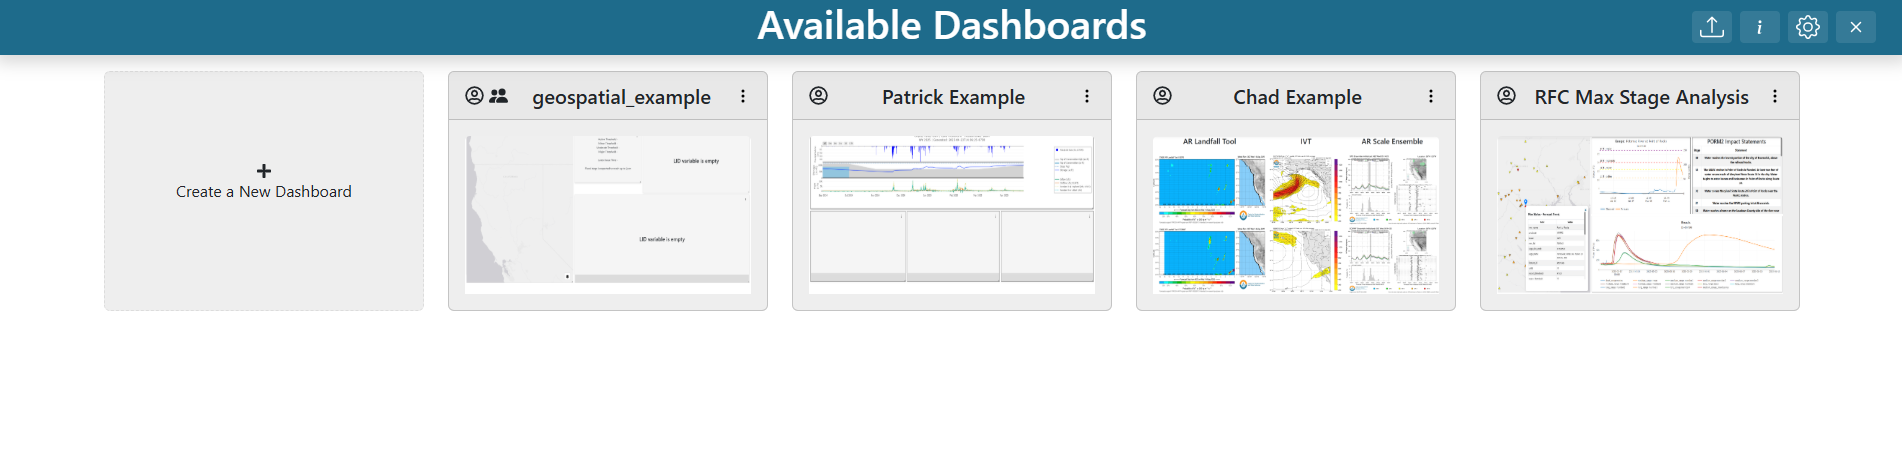
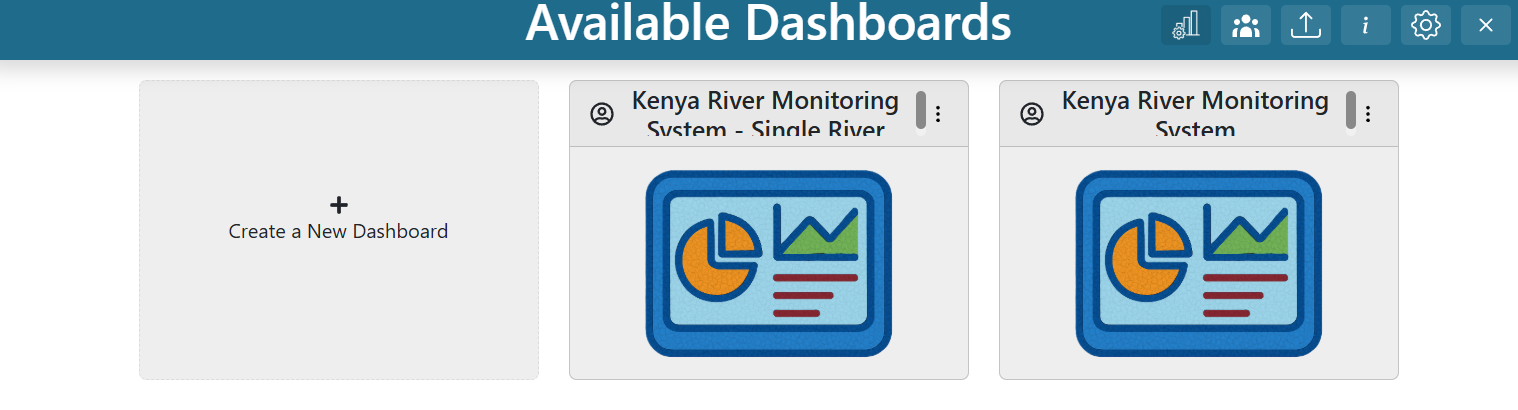
Landing Page Updates

diff --git a/docs/source/usage/landing_page.rst b/docs/source/usage/landing_page.rst
@@ -42,25 +42,37 @@ Dashboard Card Context Menu
    .. image:: ../../images/dashboard_context_menu.png
       :align: center
 
-   **Open**: Open and view the contents of the dashboard. Users can also double click on the card to open the dashboard.
+**Open**: Open and view the contents of the dashboard. Users can also double-click on the card to open the dashboard.
 
-   **Rename** (*Ownership Required*): Rename the dashboard.
+**Rename** (*Admin Privileges Required*): Rename the dashboard.
 
-   **Update Description** (*Ownership Required*): Update the dashboard description.
+**Update Description** (*Editor Privileges Required*): Update the dashboard description.
 
-   **Update Thumbnail** (*Ownership Required*): Update the dashboard thumbnail.
+**Update Thumbnail** (*Editor Privileges Required*): Update the dashboard thumbnail.
 
-   **Share --> Make Public** (*Ownership Required*): Share the dashboard so that it can be viewed by anyone. Other viewers will have read-only access.
+**Share → Make Public** (*Admin Privileges Required*): Share the dashboard so that it can be viewed by anyone. Other viewers will have read-only access.
 
-   **Share --> Copy Public URL**: Copy the public url to the clipboard.
+**Share → Copy Public URL**: Copy the public URL to the clipboard.
 
-   **Share --> Make Private** (*Ownership Required*): Remove public access to the dashboard.
+**Share → Make Private** (*Admin Privileges Required*): Remove public access to the dashboard.
 
-   **Copy** (*Sign In Required*): Create a copy of the dashboard for the user.
+**Share → Update Permissions**   
+(*Admin Privileges Required*): Manage what groups and people have different levels of access for the dashboard. When selected, a pop-up will appear allowing you to enter user names or group names to add them to the dashboard. You may assign each person as a viewer, editor, or admin.  
+   - *Viewer*: Can see the dashboard on their landing page but cannot edit it.  
+   - *Editor*: Can view the dashboard and edit its contents, description, and thumbnail.  
+   - *Admin*: Can do everything an editor can, plus manage sharing permissions and rename the dashboard.  
+Giving access to a group grants that level of access to all members in the group. The dashboard can also be made public.
+   
+   .. image:: ../../images/manage_permissions.png
+      :align: center
+      :width: 400px
 
-   **Export**: Export the dashboard into a JSON file.
 
-   **Delete**: (*Ownership Required*): Delete the dashboard.
+**Copy** (*Sign In Required*): Create a copy of the dashboard for the user.
+
+**Export**: Export the dashboard into a JSON file.
+
+**Delete** (*Admin Privileges Required*): Delete the dashboard.
 
 Importing Dashboards
 --------------------
@@ -70,7 +82,7 @@ Importing Dashboards
 
 In order to provide an easier way to share and update dashboards between tethysdash instances, dashboards can be imported 
 using a structured JSON format. To import a dashboard, click on the dashboard import icon (|dashboard_import_icon|) in the 
-header of the landing page. You will then be prompted to chose a json file and import the file. 
+header of the landing page. You will then be prompted to choose a json file and import the file. 
 
 The structure of the JSON should be the following:
 
@@ -126,4 +138,27 @@ The following options are available for the metadata_string key:
    * **refreshRate** (integer): Determines the time interval for which the visualization will be refreshed to get newest information
   
    * Any additional settings for specific visualizations (see :ref:`settings_tab`)
+
+Manage Visualization Permissions
+----------------------------
+
+When creating plugins (detailed more here), one option in the plugin is the parameter ``visualization_permissions``. It defaults to ``false``; however, if set to ``true`` then permissions can be updated for that specific visualization. If none of the plugins include this option, then visualization permissions cannot be adjusted on the landing page.
+
+A group name or username can be added to a specific visualization. Only users with permission will be able to access those visualizations.
+
+
+Manage Groups
+-------------
+
+Manage Groups allows you to create groups of users so that access can be granted to an entire group without selecting individual users each time. To manage groups, select the icon in the upper right-hand corner (). This opens a pop-up window that allows you to edit or delete existing groups and to create new ones.
+
+   .. image:: ../../images/permission_groups.png
+      :align: center
+      :width: 400px
+
+To create a new group, click **Create New Group**. Then enter a name and a description for the group. Add users using their username. Users may be either *members* or *admins* of the group. Group admins can make edits to the group.
+
+   .. image:: ../../images/add_permission_group.png
+      :align: center
+      :width: 400px
 
